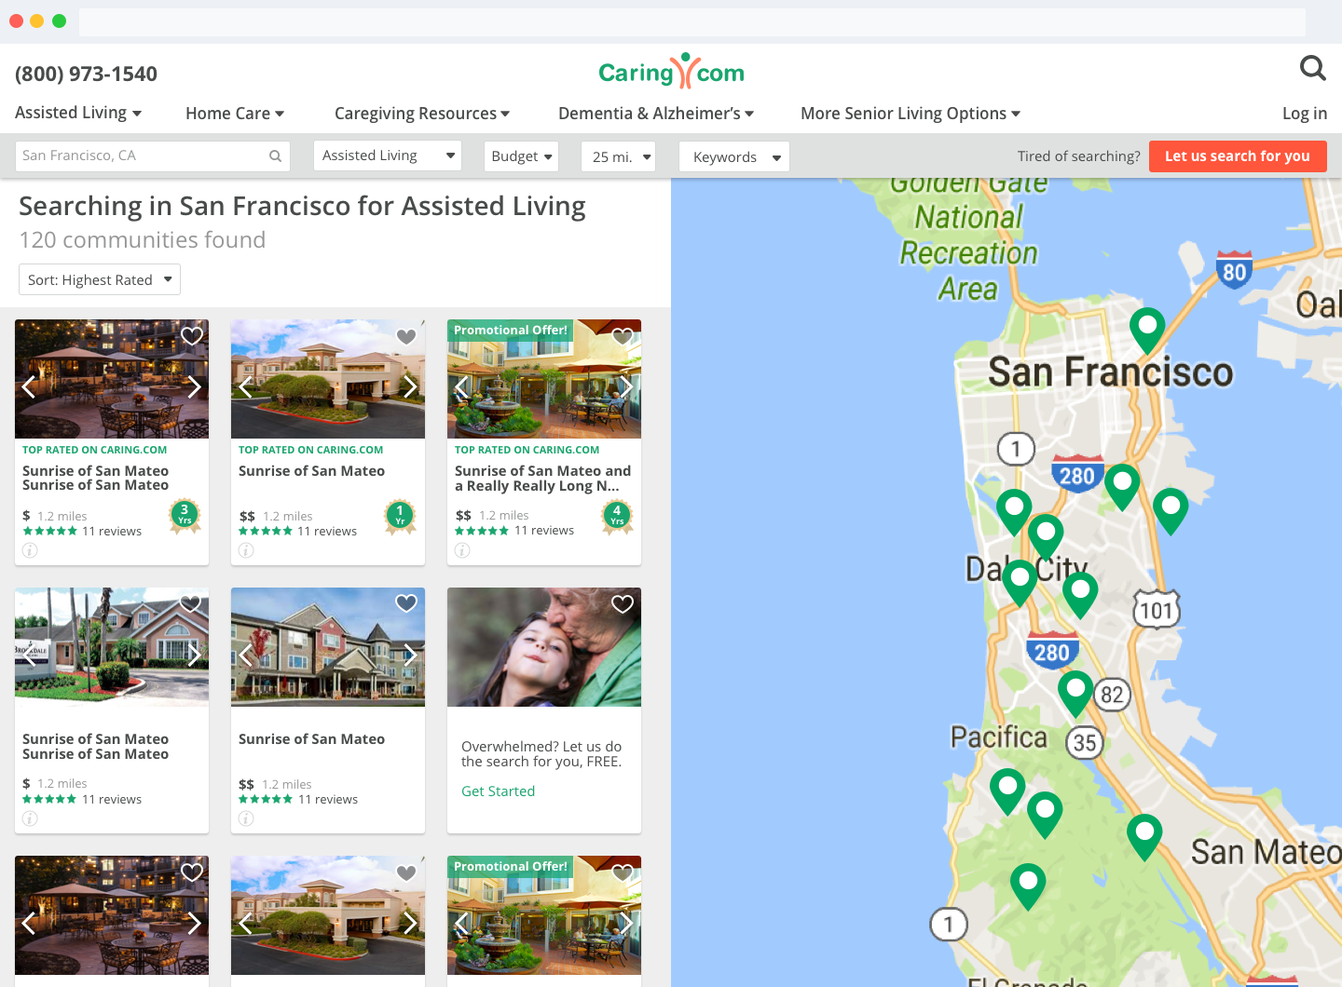
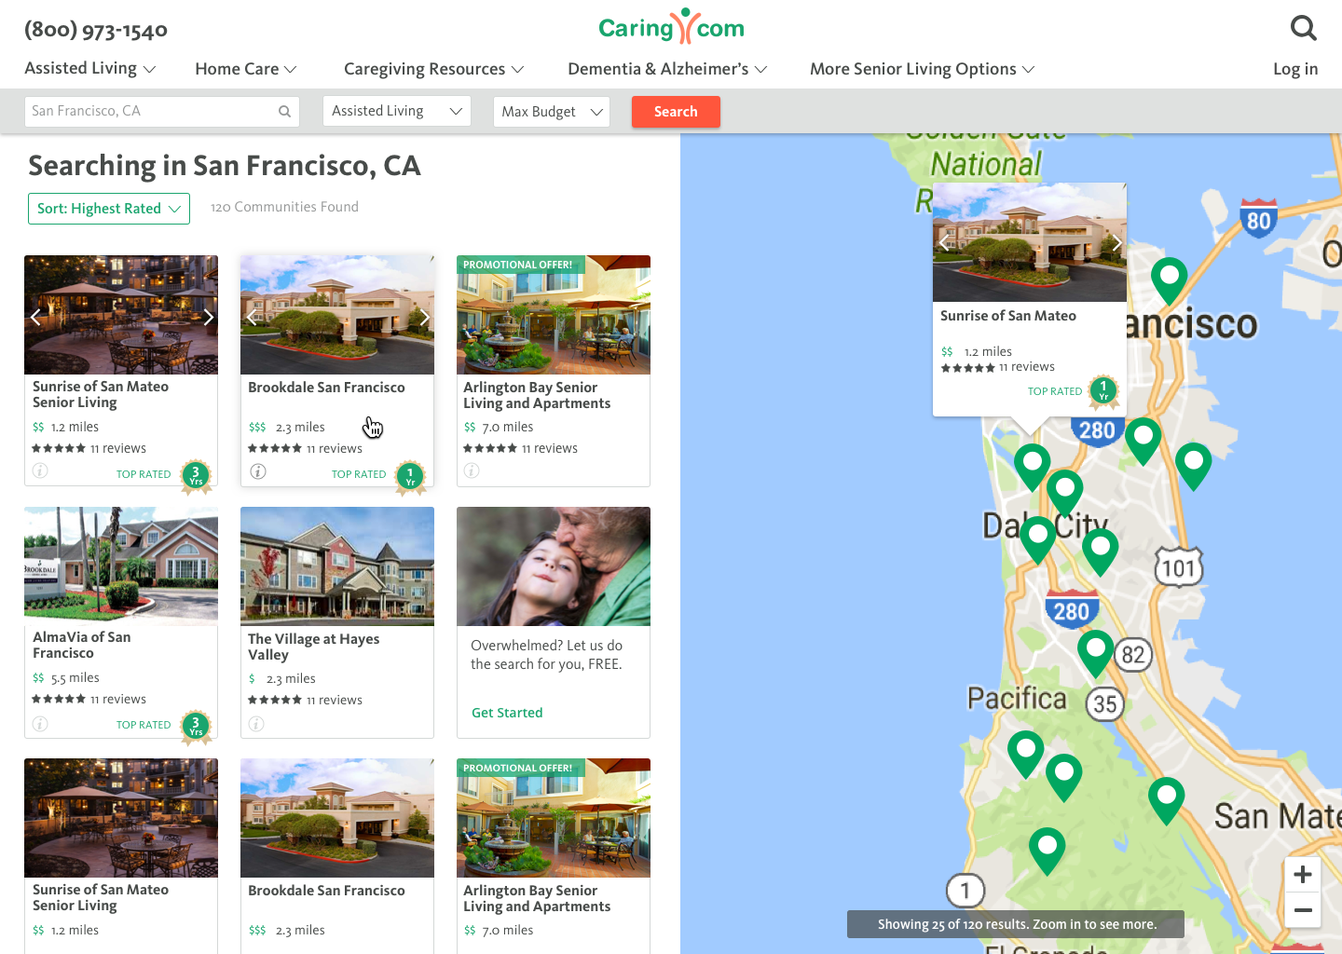
added search page

diff --git a/search.html b/search.html
@@ -57,7 +57,7 @@
     <div class="container">
       <div class="details">
         <h3>Question</h3>
-        <p>How can we simplify the search flow to include as few steps as possible and create a better search experience?</p>
+        <p>How can we simplify the search flow to include as few steps as possible and create a better experience?</p>
         <h3>Goals</h3>
         <p>To significantly increase engagement, qualitative usability, and conversion on the search results pages.</p>
       </div>
@@ -71,25 +71,55 @@
       <div class="wrapper">
         <div class="wrapper-section">
           <h1 class="wrapper-title">Identifying Problems & Defining Goals</h1>
-          <p>The original spec outlined the following problems:</p>
-          <ul>
-            <li>Current search results do not provide enough information about the communities to decide which ones are interesting. </li>
-            <li>Current search results give the user too many choices to evaluate and no method of trimming them down</li>
-            <li>Users don’t always have a great idea of what level of care they need</li>
-          </ul>
-          <p>We used the following points to define what would make a better search experience:</p>
-          <ul>
-            <li>User gets results without sense of mental exertion</li>
-            <li>User has a list of communities that they want to explore beyond the website</li>
-          </ul>
+          <p>For more context, <a href="companyxyzintro.html" class="link">read a bit about Company XYZ</a></p>
+          <p>The first version of Search was built entirely off of SEO logic and acted as individual landing pages instead of a complete flow. Because of this, search results did not provide enough information about communities for the user to decide which ones were interesting. They gave the user too many choices to evaluate with no method of trimming them down. They also didn't take into account the user's current level of knowledge about senior care. The result was low engagement and high bounce rates.</p>
 
+          <p>Our goal was to explore ways we could help the user with a better search experience. We measured this by tracking engagement, conversion and qualitative usability. Along the way, we focused on questions like, "does the user get results without mental exertion?" "Does the user have a list of communities they want to explore beyond the website?"</p>
 
+          <p>This is what the search experience looked like before:</p>
+          <img src="images/oldsearch.png" alt="Old search results page" class="inline-images">
+          <p class="caption">The search results page before I joined. Very little valuable information is shown about the communities listed.</p>
 
-          <h1>Check Back Soon!</h1>
-          <p>This project is currently underway. Check back soon to read more, but for now enjoy these sneak peaks:</p>
-          <img src="images/homepage.gif" alt="new homepage" class="inline-images">
-          <img src="images/homepage.png" alt="new homepage">
+          <p>The flow didn't make sense to me.</p>
+          <p>The user's main concerns when searching for senior care are distance, price, rating, and photos. The search results didn't give the user the information they needed to be able to know which community to click on. Instead they were given an overwhelming amount of text that added cognitive load for no reason.</p>
+          <p>The user had to go back and forth between the community page and search results page to find a community that would work with their basic needs. I felt that they were doing too much work.</p> 
+          <p>We wanted the user to land on the search page and immediately feel like they would be able to find what they were looking for. I removed all unnecessary information and focused on distance, price, rating and images - the main things needed for the user to be able to compare communities and click on one that interests them. I borrowed the map and list concept from Zillow and VRBO, two sites that our users are familiar with.</p>
+          <img src="images/search.png" alt="New search results page" class="inline-images">
+          <p class="caption">My design for the new search results page. The redesign was also part of a larger project to switch our website over to new design styles.</p>
+          <p></p>
 
+          <h1>Two Different Searches</h1>
+
+          <p>Now that Search was developing into a prominent part of our online offering, I realized that there were now two search experiences that the top nav had to accomodate: Searching content on our website like articles and resources, and searching for senior care. On a page outside of search (ie. article page, homepage, topic page) the user needed a way to navigate to our search tool.</p>
+
+          <img src="images/topnavs.png" alt="search top navs" class="inline-images">
+          <div class="caption">The search subnav only shows up on the Search page. Other pages only have the regular top nav.</div>
+
+          <p>I researched the behavior of users on our website and drew out storyboards of how they used our website so that I could integrate the two searches in a distinct manner. The following are some different explorations in how we could have done this.</p>
+
+          <img src="images/exploretopnavs.png" alt="exploring different search top navs" class="inline-images">
+          <div class="caption">Exploring different options for top navs.</div>
+
+          <p>While option 3 and 4 both seemed like viable solutions, I ended up going with 3 since it was the most explicit. With option 4, they could click the search icon expecting to go back to the search tool and feel frustrated if it didn't take them there. With option 3, we are able to catch all users looking to search and funnel them in the right direction. I'm not particularly happy with this solution, but I've decided to use this for our soft launch and gather some data before exploring other options.</p>
+
+          <h1>Mobile</h1>
+
+          <p>When you're designing for an older demographic, translating a desktop experience to mobile can be really tricky. You have to make sure your targets are large enough that users won't have a hard time clicking on them. You also have to pare information down to the bare minimum since space shrinks but fonts have to stay large.</p>
+          <p>Research behind search behaviors on mobile and desktop showed that more users were on mobile to just browse or look up specific communities, while users on desktop tended to be deep in search mode. For that reason, we decided to drop the map from mobile for v1. This would save us 3-4 days in engineering work and QA and allow us to launch quickly and get data. We set up trackers for map usage and decided that if it seemed valuable enough, we would implement this in later versions.</p>
+          <img src="images/searchmobile.png" alt="search on mobile"class="inline-images mobileimg">
+          <div class="caption">Search on mobile</div>
+
+          <h1>Region pages vs. Search</h1>
+
+          <p>Our region pages are SEO pages that contain the same content as our search pages, but with more information about the region. They are designed to increase our rank on Google. For consistency, we needed to change the region pages to match the new search page. But region pages are static and search is dynamic, so the change wasn't as easy as we thought it would be.</p>
+
+          <img src="images/lrtr.gif" alt="new region pages redesign" class="inline-images">
+          <div class="caption">New Region pages redesign</div>
+          <p>You can see the full page <a href="https://www.behance.net/gallery/61713129/Region-Search-Results-Page" class="link">here.</a></p>
+          <p>In Search, whenever the user moves the map, the search refreshes and the results change for each new location. However, our Region pages have unique information about the initial search location. We couldn't just change the information to show the new region the user moved to since they could be inbetween regions, super zoomed out, or in an area with no region (like the ocean).</p>
+          <p>My first reaction was to get rid of the map and just have our Region pages be content focused. However, the transition from Region pages to the Search page was jarring and created friction for the user. So I planned out other alternatives and landed on a "redo search here" button. Clicking that button would transition the user to Search and off of our Region pages, even though the user would feel like that same page was just refreshing.</p>
+          <img src="images/redosearch.png" alt="Redo search here button design"class="inline-images">
+          <div class="caption">The redo search here button made the user feel like the search was just refreshing even though they were being transitioned to a new product</div>
         </div>
       </div>
     </section>

diff --git a/portal.html b/portal.html
@@ -71,6 +71,7 @@
       <div class="wrapper">
         <div class="wrapper-section">
           <h1 class="wrapper-title">Dissecting the Problem</h1>
+          <p>For more context, <a href="companyxyzintro.html" class="link">read a bit about Company XYZ</a></p>
           <p>I was given a set of business goals that I translated to better human experiences. Focusing on these human experiences is like the northern light for my design process. For me, that starts with getting to know the people that will be using our product. I sat with the PM and had casual conversations with some users to just get a feel of how they felt about Partner Portal and how it tied in with their job and what motivates them. In our initial conversations, we focused on the big picture. We let this be the foundation for our product and later dug deeper to add the details. I translated these conversations to storyboards to discover what steps could be taken out, what felt natural and what didn’t, and opportunities where we could delight the user.</p>
           <img src="images/portalplanning.png" alt="My sketches for planning out partner portal" class="inline-images">
           <p class="caption">Scribbling out ideas and flows helps me to think - no matter how incomprehensible it may seem.</p>
@@ -116,11 +117,13 @@
         <p>I started out with a critique of the current flow. Here is one page of many notes: </p>
 
         <img src="images/referralnotes.png" alt="critique of a page of the referrals flow" class="inline-images">
+        <div class="caption">My notes on the old referral details page.</div>
 
         <p>The first version solved many of the issues we had with the old portal, but further testing revealed that it still wasn’t very intuitive. More move-ins were being reported, but when we followed up on them, only the same amount were valid. It seemed that people were accidentally reporting move-ins.</p>
 
         <p>The two places you can enter the flow from are the Referrals page and the Referral Details page. The split here was to reflect the two different ways you could report a move in. You could either report it on a monthly basis, in which you would select all the move ins you had that month and report them, or on a case by case basis, in which you would report them one by one as they moved in. Chains liked to use the monthly reporting feature, and SMBs used the case by case feature.</p>
         <img src="images/portalfirstflow.png" alt="first flow for reporting move in" class="inline-images">
+        <div class="caption">Diagram of report move in flow</div>
 
         <h3>So What Went Wrong?</h3>
 
@@ -137,30 +140,32 @@
         <p>In the case where a community had no move-ins for the month, they needed a way to report that as well. However, the only way to do that was by entering the Report Flow and selecting <i>Report No Move-ins</i> at the first step. This was counterintuitive and caused many people to get frustrated.</p>
 
         <img src="images/nomoveins.png" alt="report no move ins flow" class="inline-images">
+        <div class="caption">Users have to click the create move in button in order to enter the move in flow and report <b>no</b> move ins, which made no sense.</div>
 
         <h3>Iterate, iterate, iterate!</h3>
 
-        <p>To solve the above problems, I developed a new, single flow that could be used for monthly and case by case reporting. Referrals on the Referral page would be ordered based on their status; with active leads at the top, then cold, and so on (there's no point showing deceased or closed leads at the top). When the user comes to the page to report a move-in, they can do so directly on the page without ever having to navigate away. The seamlessness of the new flow made it just as easy to report mulitple move-ins as it was to report just one.</p>
+        <p>To solve the above problems, I developed a new flow that could be used for monthly and case by case reporting. When the user comes to the page to report a move-in, they can do so directly on the page without ever having to navigate away. The seamlessness of the new flow made it just as easy to report mulitple move-ins as it was to report just one. We took it a step further and made it even easier to report by ordering the referrals on the page based on their likelihood of move in.</p>
 
         <img src="images/reportmovein2.png" alt="new report move ins flow" class="inline-images">
+        <div class="caption">Instead of having to enter a flow, users can just do a quick interaction on each row of data to report a move in.</div>
 
-        <p>When it's time to report monthly move-ins, a blue info bar will appear at the top of the page so that communities with no move-ins can report that through a quick link.</p>
+        <p>I realized that communities only report no move ins at the end of the month, so I designed the system to detect this and notify the user with a blue info bar whenever they log in within 1 week of when reporting is due. Communities with no move-ins can report that by clicking  the link in the blue bar.</p>
 
         <img src="images/reportnonebar.png" alt="info bar for reporting no move ins" class="inline-images">
+        <div class="caption">The user no longer has to enter the create move in flow to report no move ins.</div>
 
         <p>The area also served as a great place to list out referrals they had already reported on a case by case basis for the month. If those were the only ones they had to report, we gave them an easy way to finalize their reporting and stop getting emails from us.</p>
 
         <img src="images/bluebar.png" alt="info bar showing referrals already reported as moved in" class="inline-images">
+        <div class="caption">The second state of the blue bar is if there are reported move ins for the month. In this case, we remind them what they are and let them finalize their reporting.</div>
 
-        <p>In the new flow, the move-in would only register in our system if the user completed the reporting flow. Placing the <i>optional</i> tag next to the form labels instead in copy was a more concise and noticeable way to inform users that they could click "Next" without the extra information.</p>
+        <p>In the new flow, the move-in would only register in our system if the user completed the reporting process. Doing so prevented duplicate and accidental reporting. Additionally, placing the <i>optional</i> tag next to the form labels instead of in copy was a more concise and noticeable way to inform users that they could click "Next" without the extra information. This eliminated any ambuiguities about whether they could continue reporting or not.</p>
 
-        <p>Right next to the "Report Move-in" button on each row is also a "More" link to report other statuses for the lead besides "Moved-in". This placement made sense for the user and was a benefit to us since we could get extra information rather easily.</p>
+        <p>Right next to the "Report Move-in" button on each row is also a "More" link to report other statuses for the lead besides "Moved-in". This placement made sense for the user and was a benefit to us since we could get extra information at little added cost to the user.</p>
 
         <img src="images/morebutton.png" alt="more actions button drop down on referrals page" class="inline-images"> 
 
-        <p>In the end, we were able to cut the number of steps in monthly reporting down to 2 and maintain consistency between monthly and case by case reporting. Users can still report a move-in through the Referral Details page, but they would be using the same flow as the Referrals page. </p>
-
-        <img src="images/referraldetailspage.png" alt="report move in from referral details page" class="inline-images">
+        <p>In the end, we were able to cut the number of steps in monthly reporting down to 2 and maintain consistency between monthly and case by case reporting. Making the system dynamic to catch users whenever reporting was relevant was also helpful in getting more valid reports and keeping the user engaged with our business. We saw a significant increase in the number of users reporting their move ins through portal versus by emailing their account managers, and a much higher move in rate from the communities that saw the most value in the product. </p>
 
         <h1>What I Learned</h1>
         <p>Portal was one of the first big projects I worked on in my time here and it had a lot of eyes on it. Design is much more than just creating flows and pretty visuals, it's also about collaboration and communication. Managing expectations with stakeholders and working with them every step of the way, made them feel personally invested in my designs and when something didn't work the way we expected it to, blame was not passed around. Instead, there was a collective effort to reinvent and improve.</p>

diff --git a/companyxyzintro.html b/companyxyzintro.html
@@ -69,23 +69,35 @@
       <div class="wrapper">
         <div class="wrapper-section">
           <h1 class="wrapper-title">Background</h1>
-          <p>In my time at XYZ, I’ve had the opportunity to work on a variety of complex products, from a partner database to an online search tool. One significant challenge of working here has been balancing the deep set traditions of the company with the value of modern design, especially with older users of 50+ years who may not always embrace new technology or complex flows; however, I have found this to present good design challenges. Working with the users at XYZ has allowed me to  identify and compensate for my own biases, remain objective, seek deeper user research, and design with accessibility in mind.</p>
+          <p>In my time at XYZ, I’ve had the opportunity to work on a variety of complex products, from a partner database to an online search tool. One significant challenge of working here has been understanding the user. Our users are 50+ years old and affected by a multitude of vision issues and technical incompetences. However, I have found these to present good design challenges. Working with the users at XYZ has allowed me to  identify and compensate for my own biases, remain objective, seek deeper user research, and design with accessibility in mind.</p>
 
-          <p>I believe that all design should consider accessibility. As technology gets more and more complex, it’s the job of the designer to translate those complexities into something simple for the user. It’s easy to get carried away with a problem and land on solutions that seem creative and unique, but have no use to the user because of it’s complexity. When we design for accessibility, it forces us to remember to design for the user and not ourselves. It forces us to find the most simple solutions. </p>
+          <p>I believe that all design should consider accessibility. As technology gets more and more complex, it’s the job of the designer to translate those complexities into something simple for the user. It’s easy to get carried away with a problem and land on solutions that seem creative and unique, but have no ultimate use. When we design for accessibility, it forces us to remember to design for the user and not ourselves. </p>
+
+          <p>Designing for an older demographic also meant that function preceeded form on all accounts. In some cases, I had to sacrifice "beautiful" interfaces for "ugly" ones that the user would better understand. The sacrifice was hard, but well worth it for a product our users would love.</p>
+
+          <p>Here are some lessons I learned while designing for older adults:</p>
+
+          <ul>
+            <li>Designing for seniors matter, they are one of the fastest growing segments on the web. 10,000 baby boomers retire everyday.</li>
+            <li>Designing for seniors will make your site accessible to pretty much everybody else. You are forced to implement good practices since older adults are particularly affected by poor usability standards.</li>
+            <li>Seniors hate scare tactics. They are hungry for neutral and unbiased advice. We had to experiment a lot with copy and CTA's that would show positivity and empowerment.</li>
+            <li>They read every word on a page and frequently print out information. This meant that we needed a solid layout and colors on all our pages that would be printer friendly.</li>
+            <li>They want a human connection. Imagery or references to real people are especially effective in gaining their trust.</li>
+          </ul>
          
-          <p>There was a dichotomy between engineers and design when I first joined, so I established unifying design principles for us to focus our work. They included the following:</p>
+          <p>Based on what I learned, I established unifying design principles for us to focus our work. They included the following:</p>
 
-          <h3>Accessibility</h3>
-          <p>We design for an audience that has difficulty using online tools and have aging eyes. We want welcome these users into a domain they are usually uncomfortable with. We do this with larger targets such as form fields, buttons, and cards.</p>
+          <h3>Accessible</h3>
+          <p>We design for an audience that has difficulty using online tools and have aging eyes. We want to welcome these users into a domain they are usually uncomfortable with.</p>
 
           <h3>Simple</h3>
-          <p>We remove color and distractions and enforce consistency so that attention will remain focused on content. We keep all interactions as straight forward as possible and have a bias toward explicit versus implicit interactions.</p>
+          <p>We remove color and distractions and enforce consistency so that attention will remain focused on content. We keep all interactions as straightforward as possible and have a bias toward explicit versus implicit interactions.</p>
 
           <h3>Effortless</h3>
           <p>We always try to think ahead of the user. We preemptively know what questions they will ask at each step of the way and design for that. We tailor copy and design to help with making the user feel like the entire process is seamless.</p>
 
           <h3>Optimized for Google</h3>
-          <p>We need to let people know that we exist and that we are here to help them. We put the most important content ATF, use the right heirarchy of headings, and add a descriptive page title and meta text.</p>
+          <p>We need to let people know that we exist and that we are here to help them. We put the most important content ATF, use the right hierarchy of headings, and add a descriptive page title and meta text.</p>
 
         </div>
       </div>

diff --git a/ar.html b/ar.html
@@ -77,8 +77,8 @@
           <h1 class="wrapper-title">Catching Kittens</h1>
           <p>The objective of the game is to catch the falling kittens by tapping them before they hit the plane. You start off with a health score of 20, and lose a point for every kitten that falls and hits the plane. If you catch a kitten, you gain 1 point. The game is over once you reach 0 health points.</p>
 
-          <img src="images/catchingkittens.gif" alt="Catching Kittens AR Game" class="inline-images arvideo">
-          <img src="images/catchingkittens2.gif" alt="Catching Kittens AR Game" class="inline-images arvideo">
+          <img src="images/catchingkittens.gif" alt="Catching Kittens AR Game" class="inline-images mobileimg">
+          <img src="images/catchingkittens2.gif" alt="Catching Kittens AR Game" class="inline-images mobileimg">
           
           <h1 class="wrapper-title">What I Learned</h1>
           <p>Usability in the AR space is new and exciting because it has many new design challenges. The designer must take into account issues in the technology and how to convey them to the user; such as encouraging the them to move around with the camera before starting the program or helping people troubleshoot their experience if it doesn't work properly. Thinking about space in AR is also a fun problem because sometimes making every element 3D isn't the most usable experience. Knowing what gestures are easy for what actions and how big your field should be are more common considerations when designing for AR. These are just the tip of the iceberg for design challenges in AR and the emergence of this space for practical applications is something that I am very excited about!</p>

diff --git a/styles/styles.css b/styles/styles.css
@@ -281,6 +281,13 @@ nav ul {
 #menu-btn.active span:after {
   transform: translate3d(0,-10px,0) rotate(-45deg)
 }
+.link {
+  text-decoration: underline;
+}
+.link:hover {
+  text-decoration: none;
+  color: var(--text-color);
+}
 /********************************/
 /****** homepage header styling *********/
 /********************************/
@@ -444,7 +451,7 @@ img {
   width: 100%;
   height: auto;
 }
-.arvideo {
+.mobileimg {
   width: 45%;
 }
 .homephotos {
@@ -847,7 +854,7 @@ h5 {
   .section-content {
     width: 100%;
   }
-  .arvideo {
+  .mobileimg {
     width: 65%;
   }
   #site-title {
@@ -933,7 +940,7 @@ h5 {
   .details {
     width: 100%;
   }
-  .arvideo {
+  .mobileimg {
     width: 85%;
   }
   .homephotos {
